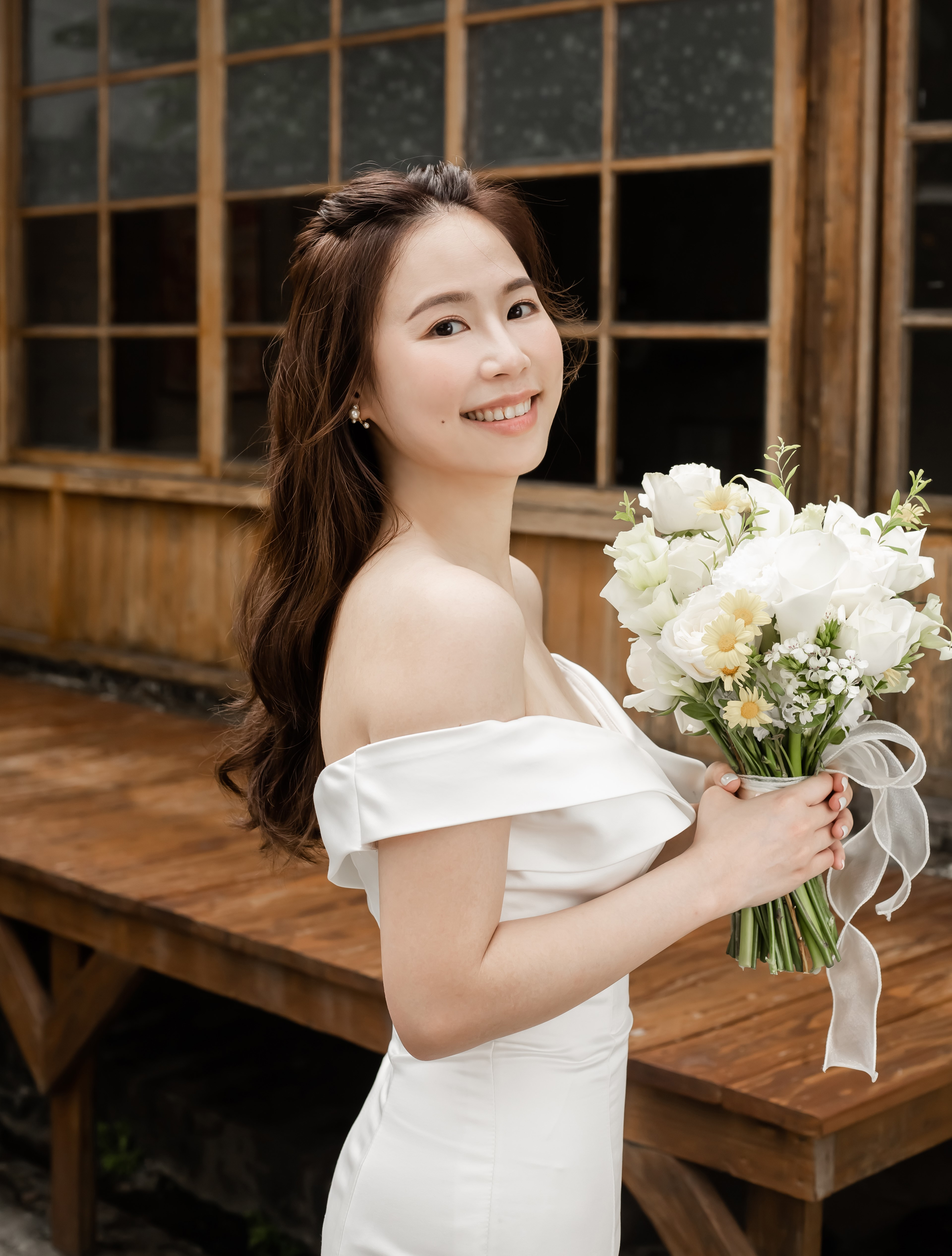
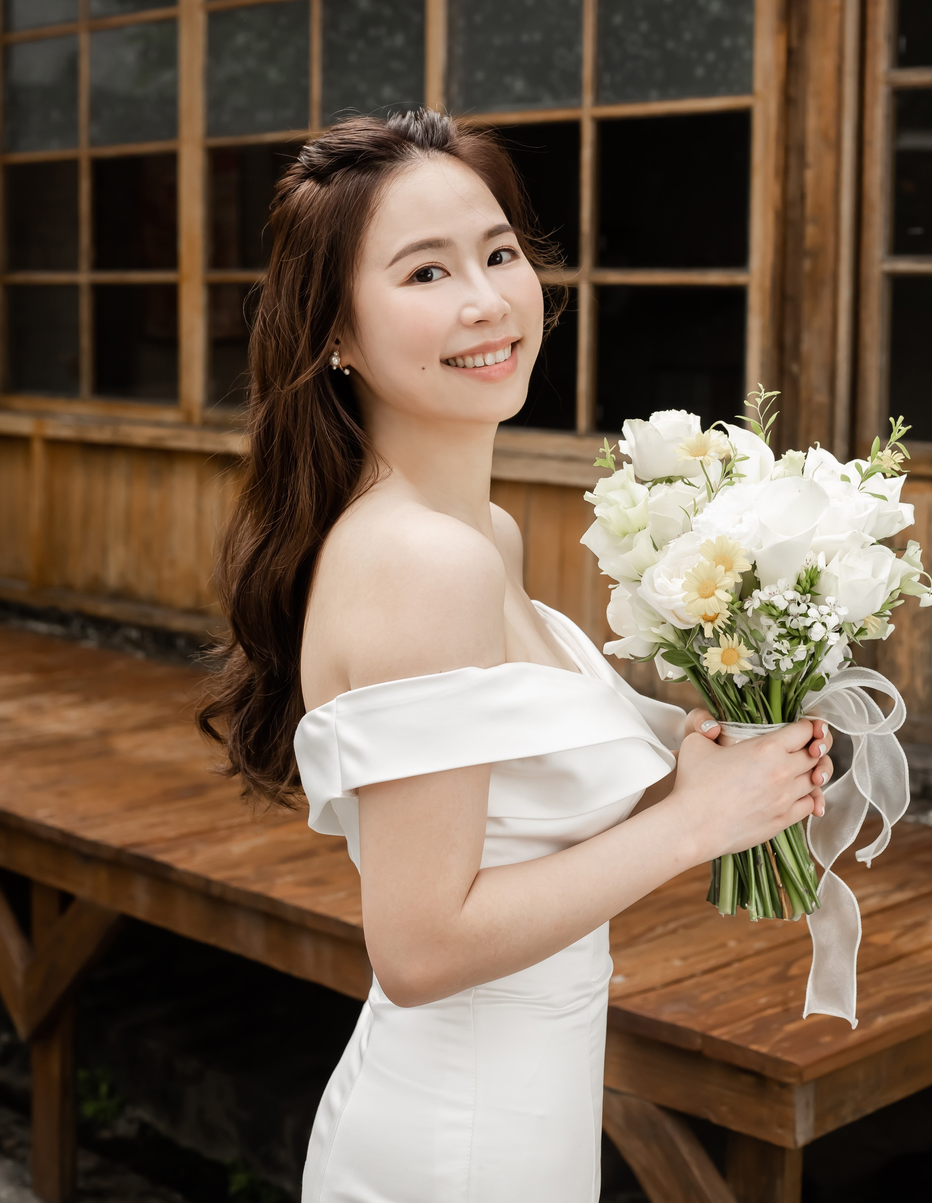
update contact width

diff --git a/index.html b/index.html
@@ -87,7 +87,37 @@
         
         <p class="groom-and-bride"> Meet the groom and bride</p>
 
-        <div class="profile">
+        
+        <section id="bride" class="content">
+            <div class="profile">
+                <div class="image-container">
+                    <img src="molly.jpg" alt="Bride's Photo">
+                    <p class="bride-name">Kuan-Chieh Chen</p>
+                    <p class="bride-intro">Introducing Molly Chen, born in Kaohsiung, Taiwan. Molly's two great loves are travel and books. 
+                        She's an avid reader who enjoys delving into the pages of books from all genres, and her curiosity has led her 
+                        to explore the diverse cultures and landscapes of our world. Whether she's lost in the pages of a novel or
+                         embarking on an adventure to a new destination, Molly's spirit of exploration knows no bounds.</p>
+                </div>
+            </div>
+        </section>
+        
+        <section id="groom" class="content">
+            <div class="profile">
+                <div class="image-container">
+                    <img src="minh.jpg" alt="Groom's Photo">
+                    <p class="groom-name">Cong Minh Tam Tran</p>
+                    <p class="groom-intro">Meet Minh Tran, originally from Cologne, Germany. 
+                        He has a deep passion for exploring new places and capturing their beauty through the lens of his camera. 
+                        Minh's love for travel has taken him to various corners of the world, and his photography skills allow 
+                        him to preserve the memories of these journeys in stunning images. He's the kind of person who always has a camera ready to capture life's precious moments.</p>
+                </div>
+            </div>
+        </section>
+        
+
+
+        
+        <!--<div class="profile">
             <div class="profile-image">
                 <div class="image-container">
                 <img src="molly.jpg" alt="Bride's Photo">
@@ -108,10 +138,8 @@
                     Minh's love for travel has taken him to various corners of the world, and his photography skills allow 
                     him to preserve the memories of these journeys in stunning images. He's the kind of person who always has a camera ready to capture life's precious moments.</p>
             </div>
-        </div>
+        </div> -->
 
-
-        
     </section>
 
     <section id="details" class="content">
@@ -120,9 +148,9 @@
         <p>Eventtenne at Lebzelterstraße 8 | 85276 Pfaffenhofen</p>
         <p class="details-direction">Directions</p>
         <p>
-            From Munich&nbsp;&nbsp;&nbsp;&nbsp;&nbsp;&nbsp;&nbsp;&nbsp;&nbsp;&nbsp;&nbsp;&nbsp;&nbsp;&nbsp;&nbsp;&nbsp;&nbsp;&nbsp;&nbsp;&nbsp;&nbsp;&nbsp;&nbsp;&nbsp;&nbsp;&nbsp;&nbsp;&nbsp;&nbsp;&nbsp;&nbsp;&nbsp;&nbsp;&nbsp;&nbsp;&nbsp;&nbsp;&nbsp;&nbsp;&nbsp;&nbsp;&nbsp;&nbsp;45 KM | 30 MIN by CAR <br>
-            From Mnuich,Airport, Franz Josef Strauß&nbsp;&nbsp;&nbsp;&nbsp;36 KM | 25 MIN by CAR<br>
-            From Ingolstadt&nbsp;&nbsp;&nbsp;&nbsp;&nbsp;&nbsp;&nbsp;&nbsp;&nbsp;&nbsp;&nbsp;&nbsp;&nbsp;&nbsp;&nbsp;&nbsp;&nbsp;&nbsp;&nbsp;&nbsp;&nbsp;&nbsp;&nbsp;&nbsp;&nbsp;&nbsp;&nbsp;&nbsp;&nbsp;&nbsp;&nbsp;&nbsp;&nbsp;&nbsp;&nbsp;&nbsp;&nbsp;&nbsp;&nbsp;&nbsp;&nbsp;36 KM |25 MIN by CAR<br>
+            <span>From Munich</span> 45 KM | 30 MIN by CAR <br>
+            <span>From Munich Airport, Franz Josef Strauß</span> 36 KM | 25 MIN by CAR <br>
+            <span>From Ingolstadt</span> 36 KM | 25 MIN by CAR
         </p>
         <div class="google-map-container">
             <iframe src="https://www.google.com/maps/embed?pb=!1m14!1m8!1m3!1d10570.24416996044!2d11.543544107671986!3d48.522478899999996!3m2!1i1024!2i768!4f13.1!3m3!1m2!1s0x479e5dfcf99628e1%3A0x32b05a6ac4082070!2sEventtenne!5e0!3m2!1sen!2sde!4v1705231350910!5m2!1sen!2sde" width="1000" height="400" style="border:0;" allowfullscreen="" loading="lazy" referrerpolicy="no-referrer-when-downgrade"></iframe>

diff --git a/styles.css b/styles.css
@@ -264,6 +264,22 @@ img {
     /*background-color: #FDF2E9;*/
 }
 
+.details-direction {
+    margin: 0;
+    padding: 0;
+}
+
+.detail-direction span {
+    display: inline-block;
+    width: 50%;
+    text-align: left;
+    white-space: nowrap;
+    overflow: hidden;
+    text-overflow: ellipsis;
+    margin-bottom: 0.5rem;
+}
+
+
 .bride-intro, .groom-intro {
     font-style: italic; /* Set font style to italic */
     text-align:center; /* Center-align the text */
@@ -279,37 +295,49 @@ img {
 
 .profile {
     display: flex; /* Display the profiles side by side */
-    justify-content: center; /* 使照片在水平方向上分散对齐 */
+    justify-content: space-between; /* 使照片在水平方向上分散对齐 */
     align-items: center; /* Center-align the profiles horizontally */
     margin-bottom: 50px; /* Add some spacing between the profiles */
 }
 
 .profile-image {
     text-align: center;
+    /*margin-top: 10px;*/
 }
 
 .image-container {
+    
     flex: 0 0 calc(33.33% - 10px); /* Set a specific width for the image container and leave space between them */
     width: 100%; /* Set a specific width for the image container */
-    height: 830px; /* Set a specific height for the image container */
+    height: auto; /* Set a specific height for the image container */
     overflow: hidden; /* Hide any image overflow */
-    /*border: 30px solid #FDF2E9;*/
-    border-left: 60px solid #FDF2E9;
-    border-right: 60px solid #FDF2E9;
-    background-color: #FDF2E9;
+    background-color:#FDF2E9;
     box-sizing: border-box; /* Include borders in the width calculation */
+    border: 5px solid #FDF2E9; /* Optional border for separation */
 }
 
 .image-container img {
-    width: auto; /* Ensure the image fills the container */
-    height: auto; /* Ensure the image fills the container */
+    width: 100%;
+    height: auto; /* Ensure the image maintains its aspect ratio */
+    /*display: block; /* Remove extra spacing below images */
+    /*margin: 0 auto; /* Center-align images horizontally */
 }
-
 
 .profile-image p {
     margin-top: 10px; /* 调整文本与照片的间距 */
 }
 
+/* Additional styles for mobile screens */
+@media screen and (max-width: 767px) {
+    .profile {
+        flex-direction: column; /* Vertical layout for mobile */
+    }
+
+    .image-container {
+        flex: 0 0 100%; /* Full width for each profile container on mobile */
+        margin-bottom: 20px; /* Add spacing between profiles */
+    }
+}
 /*Wedding Details*/
 
 
@@ -357,12 +385,7 @@ img {
     height: 100%;
 }
 
-/* Responsive adjustments for smaller screens (e.g., mobile) */
-@media screen and (max-width: 768px) {
-    .google-map-container {
-        padding-bottom: 75%; /* Adjust the aspect ratio for smaller screens */
-    }
-}
+
 
 /* Style the countdown timer */
 .countdown-timer ul {
@@ -398,7 +421,7 @@ img {
     margin:0 2vw;
     font-size: 6vw;
     font-family: 'Dancing Script', cursive;
-    line-height: 1;
+    line-height: 1.5;
     color: #154360;
 }
 
@@ -432,7 +455,6 @@ img {
 
 .bride-contact, .groom-contact {
     flex: 1;
-    padding: 20px;
     border: 1px solid #ccc; /* Add a border for separation */
 }
 
@@ -445,6 +467,7 @@ img {
 @media screen and (max-width: 768px) {
     .contact-container {
         flex-direction: column; /* Stack bride and groom contact vertically */
+        padding: 0 20px;
     }
 
     .bride-contact, .groom-contact {
